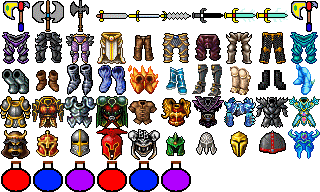
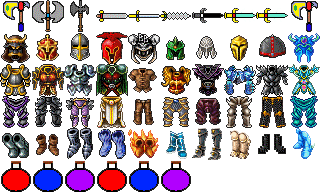
MilestoneE final pt final

diff --git a/EditorQuest/Ingame.cpp b/EditorQuest/Ingame.cpp
@@ -56,8 +56,8 @@ void Ingame::Inicializar(Janela* _janela){
 	botoes[BOTAO_USAR].Inicializar(janela->renderer, "resources/botoes/Usar.png", w/10.0*8.25, h/10.0*8.75);
 	botoes[BOTAO_USAR2].Inicializar(janela->renderer, "resources/botoes/Remover.png", w/10.0*7.0, h/10.0*8.75);
 	botoes[BOTAO_DESTRUIR].Inicializar(janela->renderer, "resources/botoes/Destruir.png", w/10.0*5.0, h/10.0*8.75);
-	botoes[BOTAO_RETRY].Inicializar(janela->renderer, "resources/botoes/Retry.png", 50, h/10.0*8.75);
-	botoes[BOTAO_PROX].Inicializar(janela->renderer, "resources/botoes/Prox.png", 50, h/10.0*8.75);
+	botoes[BOTAO_RETRY].Inicializar(janela->renderer, "resources/botoes/Retry.png", 50, h/10.0*7.75);
+	botoes[BOTAO_PROX].Inicializar(janela->renderer, "resources/botoes/Prox.png", 50, h/10.0*7.75);
 	filtro.CriaTexturaDaImagem(janela->renderer, "resources/imgs/filtro.png");
 	gameover.CriaTexturaDaImagem(janela->renderer, "resources/imgs/gameover.png");
 	victory.CriaTexturaDaImagem(janela->renderer, "resources/imgs/vitoria.png");
@@ -95,6 +95,34 @@ void Ingame::Inicializar(Janela* _janela){
 	}
 
 	gerenteAtor.Adicionar(jogador = new Jogador(gerenteAtor, initX, initY));
+
+	ifstream inv("resources/profiles/"+perfil+".inv", ios_base::binary);
+	if(inv.is_open()){
+		Item** inventario = jogador->PegaInventario();
+		Equipamento** equip = jogador->PegaEquipamentos();
+		Atributos atributos;
+		unsigned int id, id2;
+		int slot;
+		while(true){
+			inv.read((char*)&slot, sizeof(int));
+			if(slot < 0){
+				break;
+			}
+			inv.read((char*)&id, sizeof(unsigned int));
+			inv.read((char*)&id2, sizeof(unsigned int));
+			inv.read((char*)&atributos, sizeof(Atributos));
+			if(slot < 10){
+				if(id2 == 5){
+					inventario[slot] = new Consumavel(janela->renderer, nomes[id2], desc[id2], atributos, id);
+				} else {
+					inventario[slot] = new Equipamento(janela->renderer, nomes[id2], desc[id2], atributos, id2, id);
+				}
+			} else {
+				equip[slot-10] = new Equipamento(janela->renderer, nomes[id2], desc[id2], atributos, id2, id);
+			}
+		}
+		inv.close();
+	}
 
 	ifstream mobfile("resources/maps/"+mapatual+".mob", ios_base::binary);
 	if(mobfile.is_open()){
@@ -227,7 +255,7 @@ void Ingame::Atualizar(Uint32 deltaTime){
 		gerenteAtor.Atualizar(deltaTime, &mapa, &camera);
 		
 		if(janela->entrada.pegaTexto() == "reload"){
-			mapa.Carregar("teste");
+			mapa.Carregar(mapatual);
 			mapa.Inicializar(janela->renderer);
 			janela->entrada.toggleInputTexto();
 			janela->entrada.toggleInputTexto();
@@ -256,7 +284,7 @@ void Ingame::Atualizar(Uint32 deltaTime){
 			estado = ESTADO_WIN;
 		break;
 	case ESTADO_PAUSADO:
-		for(int i = 0; i < BOTAO_QTD; i++)
+		for(int i = 0; i < BOTAO_QTD-2; i++)
 			botoes[i].Atualizar(Mouse);				
 		newstatus.str("");
 		newstatus << "HP/HPMax = " << a.hpatual << "/" << a.hp
@@ -349,6 +377,37 @@ void Ingame::Atualizar(Uint32 deltaTime){
 				unsigned int size = proxMapa.size()+1;
 				profile.write((char*)&size, sizeof(unsigned int));
 				profile.write((char*)proxMapa.c_str(), size);
+				profile.close();
+			}
+			profile.open("resources/profiles/"+perfil+".inv", ios_base::binary);
+			if(profile.is_open()){
+				Item** inventario = jogador->PegaInventario();
+				Equipamento** equip = jogador->PegaEquipamentos();
+				unsigned int id, id2;
+				int slot;
+				for(int i = 0; i < 10; i++){
+					if(inventario[i]){
+						slot = i;
+						inventario[i]->PegaXY(id, id2);						
+						profile.write((char*)&slot, sizeof(int));					
+						profile.write((char*)&id, sizeof(unsigned int));
+						profile.write((char*)&id2, sizeof(unsigned int));
+						profile.write((char*)&inventario[i]->PegaAtributos(), sizeof(Atributos));
+					}
+				}
+				for(int i = 10; i < 15; i++){
+					if(equip[i-10]){
+						slot = i;
+						equip[i-10]->PegaXY(id, id2);						
+						profile.write((char*)&slot, sizeof(int));					
+						profile.write((char*)&id, sizeof(unsigned int));
+						profile.write((char*)&id2, sizeof(unsigned int));
+						profile.write((char*)&equip[i-10]->PegaAtributos(), sizeof(Atributos));
+					}
+				}
+				slot = -1;
+				profile.write((char*)&slot, sizeof(int));					
+				profile.close();
 			}
 		}
 		if(!(proxMapa.size() == 0)){
@@ -366,6 +425,37 @@ void Ingame::Atualizar(Uint32 deltaTime){
 				unsigned int size = mapatual.size()+1;
 				profile.write((char*)&size, sizeof(unsigned int));
 				profile.write((char*)mapatual.c_str(), size);
+				profile.close();
+			}
+			profile.open("resources/profiles/"+perfil+".inv", ios_base::binary);
+			if(profile.is_open()){
+				Item** inventario = jogador->PegaInventario();
+				Equipamento** equip = jogador->PegaEquipamentos();
+				unsigned int id, id2;
+				int slot;
+				for(int i = 0; i < 10; i++){
+					if(inventario[i]){
+						slot = i;
+						inventario[i]->PegaXY(id, id2);						
+						profile.write((char*)&slot, sizeof(int));					
+						profile.write((char*)&id, sizeof(unsigned int));
+						profile.write((char*)&id2, sizeof(unsigned int));
+						profile.write((char*)&inventario[i]->PegaAtributos(), sizeof(Atributos));
+					}
+				}
+				for(int i = 10; i < 15; i++){
+					if(equip[i-10]){
+						slot = i;
+						equip[i-10]->PegaXY(id, id2);						
+						profile.write((char*)&slot, sizeof(int));					
+						profile.write((char*)&id, sizeof(unsigned int));
+						profile.write((char*)&id2, sizeof(unsigned int));
+						profile.write((char*)&equip[i-10]->PegaAtributos(), sizeof(Atributos));
+					}
+				}
+				slot = -1;
+				profile.write((char*)&slot, sizeof(int));					
+				profile.close();
 			}
 		}
 		break;

diff --git a/EditorQuest/MenuInicial.cpp b/EditorQuest/MenuInicial.cpp
@@ -25,11 +25,11 @@ void MenuInicial::Inicializar(Janela* _janela){
 	}
 	mapa.Inicializar(janela->renderer);
 
-	fonte = TTF_OpenFont("resources/fonts/pix.ttf", 16);
+	fonte = TTF_OpenFont("resources/fonts/pix.ttf", 32);
 	cor.r = cor.g = cor.b = 0;
 	jogar.Inicializar(janela->renderer, "resources/botoes/Jogar.png", w/2.0-71.0, h/10.0*4.0);
 	sair.Inicializar(janela->renderer, "resources/botoes/Sair do jogo.png", w/2.0-131.0, h/10.0*8.0);
-	altnome.Inicializar(janela->renderer, "Alterar nome", 0, 575, fonte, cor);
+	altnome.Inicializar(janela->renderer, "resources/botoes/alt.png", 0, 540, fonte, cor);
 	titulo.CriaTexturaDaImagem(janela->renderer, "resources/imgs/Walachia.png");
 	portal.CriaTexturaDaImagem(janela->renderer, "resources/imgs/portal.png", 122);
 	indice = 0;
@@ -120,7 +120,7 @@ void MenuInicial::Renderizar(){
 	jogar.Renderizar(janela->renderer);
 	sair.Renderizar(janela->renderer);
 	altnome.Renderizar(janela->renderer);
-	nomespr.Renderizar(janela->renderer, 0, 560);
+	nomespr.Renderizar(janela->renderer, (altnome.PegaDimensao().w-nomespr.PegaDimensao().w)/2, 515);
 }
 
 void MenuInicial::Finalizar(){

diff --git a/EditorQuest/Editor.cpp b/EditorQuest/Editor.cpp
@@ -149,8 +149,8 @@ void Editor::Inicializar(Janela* _janela)
 	tileset.CriaTexturaDaImagem(janela->renderer, "resources/imgs/tileset.png", 32);
 	mobset.CriaTexturaDaImagem(janela->renderer, "resources/imgs/mobset.png", 32);
 	armset.CriaTexturaDaImagem(janela->renderer, "resources/imgs/armset.png", 32);
-	itemset.CriaTexturaDaImagem(janela->renderer, "resources/imgs/itemset.png", 32, 32);
-	player.CriaTexturaDaImagemC(janela->renderer, "resources/sprites/vlad.png", 33, 48);
+	itemset.CriaTexturaDaImagemC(janela->renderer, "resources/imgs/itemset.png", 32, 32, 255, 255, 255);
+	player.CriaTexturaDaImagem(janela->renderer, "resources/sprites/vlad.png", 33, 48);
 	TTF_Font* fonte = TTF_OpenFont("resources/fonts/pix.ttf", 32);
 	TTF_Font* fonteS = TTF_OpenFont("resources/fonts/pix.ttf", 22);
 	TTF_Font* fonte2 = TTF_OpenFont("resources/fonts/pix.ttf", 16);

diff --git a/EditorQuest/BotaoPersonalizado.cpp b/EditorQuest/BotaoPersonalizado.cpp
@@ -5,7 +5,7 @@ void BotaoPersonalizado::Inicializar(SDL_Renderer* renderer, char* _texto, doubl
 	x = _x;
 	y = _y;
 	pressionado = hover = solto = false;
-	sprite[0].CriaTexturaDaImagem(renderer, _texto);
+	sprite[0].CriaTexturaDaImagemC(renderer, _texto, 0, 0, 255, 255, 255);
 }
 
 void BotaoPersonalizado::Renderizar(SDL_Renderer* renderer){

diff --git a/EditorQuest/MenuInicial.h b/EditorQuest/MenuInicial.h
@@ -10,8 +10,7 @@ class Editor;
 
 class MenuInicial : public Tela{
 private:
-	BotaoPersonalizado jogar, sair;
-	Botao altnome;
+	BotaoPersonalizado jogar, sair, altnome;
 	Mapa mapa;
 	Sprite titulo, portal, nomespr;
 	std::string nome;
